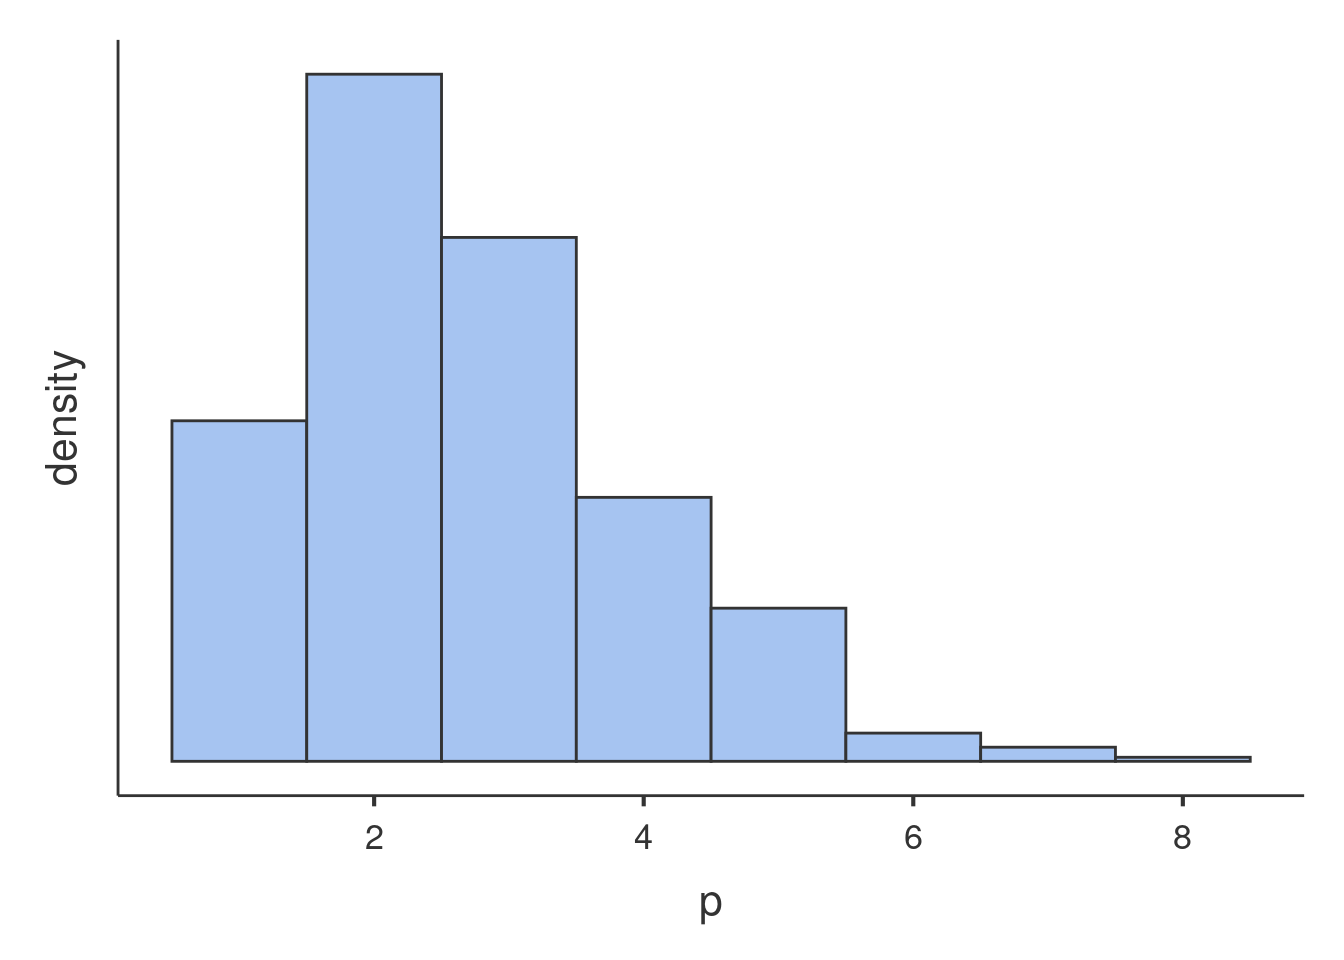
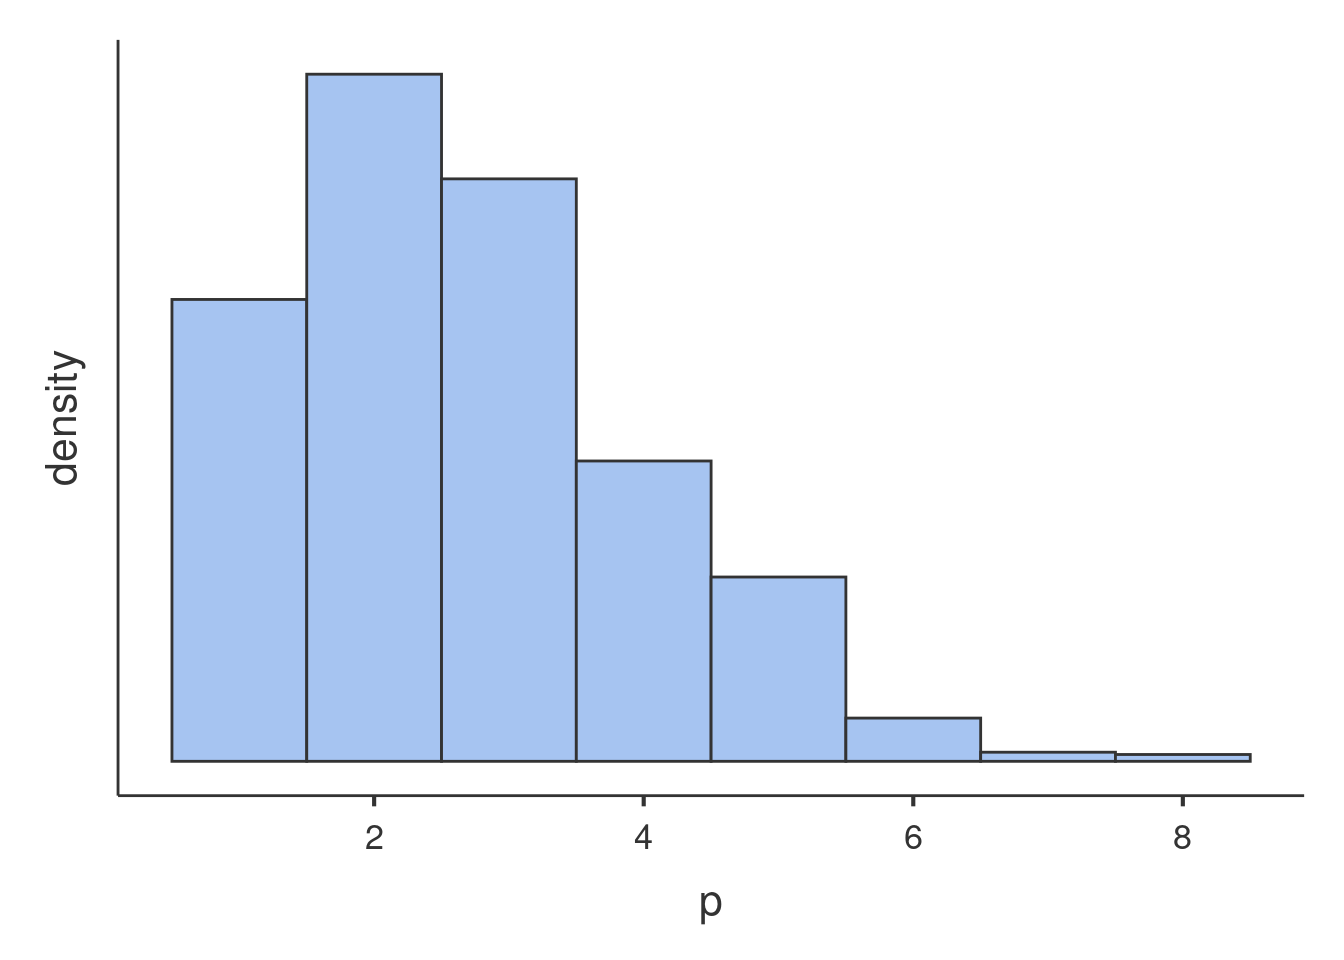
updates

diff --git a/glmmixed_example2.html b/glmmixed_example2.html
@@ -383,7 +383,7 @@ div.tocify {
 <p><img src="glmmixed_example2_files/figure-html/unnamed-chunk-2-1.png" width="672" /></p>
 <p>Glancing at the histogram makes it clear that the distribution is not normal, but it roughly resembles the Poisson distribution. Here is an example of Poisson distribution with equivalent mean.</p>
 <p><img src="glmmixed_example2_files/figure-html/unnamed-chunk-3-1.png" width="672" /></p>
-<p>We can see that the shape of our distribution is not qualitatively very different as compared with a theoretical Poisson distribution, so a Generalized Linear Model with Poisson distribition may work. However, we can check wheather our distribution is in line with the features of the Poisson dist by checking its mean and variance. The Poisson distribution has variance equal to the mean, in fact the simulated distribution in the histogram has <span class="math inline">\(\bar{x}=1.684\)</span> and <span class="math inline">\(s^2=1.642\)</span>. The <code>art</code> variable distribution has <span class="math inline">\(\bar{x}=1.693\)</span> and <span class="math inline">\(s^2=3.71\)</span>, with a ratio variance/mean of 2.191, which does not really qualify for Poisson dist. This looks like a case of <strong>overdispersion</strong>, <a href="http://bbolker.github.io/mixedmodels-misc/glmmFAQ.html#overdispersion">cf. here for details</a>. We will than consider a Negative Binomial model to account for possible overdispersion.</p>
+<p>We can see that the shape of our distribution is not qualitatively very different as compared with a theoretical Poisson distribution, so a Generalized Linear Model with Poisson distribition may work. However, we can check wheather our distribution is in line with the features of the Poisson dist by checking its mean and variance. The Poisson distribution has variance equal to the mean, in fact the simulated distribution in the histogram has <span class="math inline">\(\bar{x}=1.674\)</span> and <span class="math inline">\(s^2=1.775\)</span>. The <code>art</code> variable distribution has <span class="math inline">\(\bar{x}=1.693\)</span> and <span class="math inline">\(s^2=3.71\)</span>, with a ratio variance/mean of 2.191, which does not really qualify for Poisson dist. This looks like a case of <strong>overdispersion</strong>, <a href="http://bbolker.github.io/mixedmodels-misc/glmmFAQ.html#overdispersion">cf. here for details</a>. We will than consider a Negative Binomial model to account for possible overdispersion.</p>
 <p>An example of Negative Binomial distribution with equivalent mean and variance is here.</p>
 <p><img src="glmmixed_example2_files/figure-html/unnamed-chunk-4-1.png" width="672" /></p>
 <p>The second issue one needs to deal with is the structure of the data. We have seen that the students are not a random sample of students drawn independently one each other, but they are grouped by the program they are enrolled in. There are 83 programs, in each program there are on average 11 students. Because students in the same program may be more similar one each other than across programs, <code>programs</code> may cluster the scores of the dependent variable and create dependency in the data. To take dependency into the account, we will use a random intercepts model estimated with a Generalized Mixed Model.</p>

diff --git a/vignettes_gamljGLM.html b/vignettes_gamljGLM.html
@@ -10,7 +10,9 @@
 
 <meta name="viewport" content="width=device-width, initial-scale=1" />
 
+<meta name="author" content="Marcello Gallucci" />
 
+<meta name="date" content="2021-03-07" />
 
 <title>Examples of gamljGLM</title>
 
@@ -135,6 +137,8 @@ code span.wa { color: #60a0b0; font-weight: bold; font-style: italic; } /* Warni
 
 
 <h1 class="title toc-ignore">Examples of gamljGLM</h1>
+<h4 class="author">Marcello Gallucci</h4>
+<h4 class="date">2021-03-07</h4>
 
 
 
